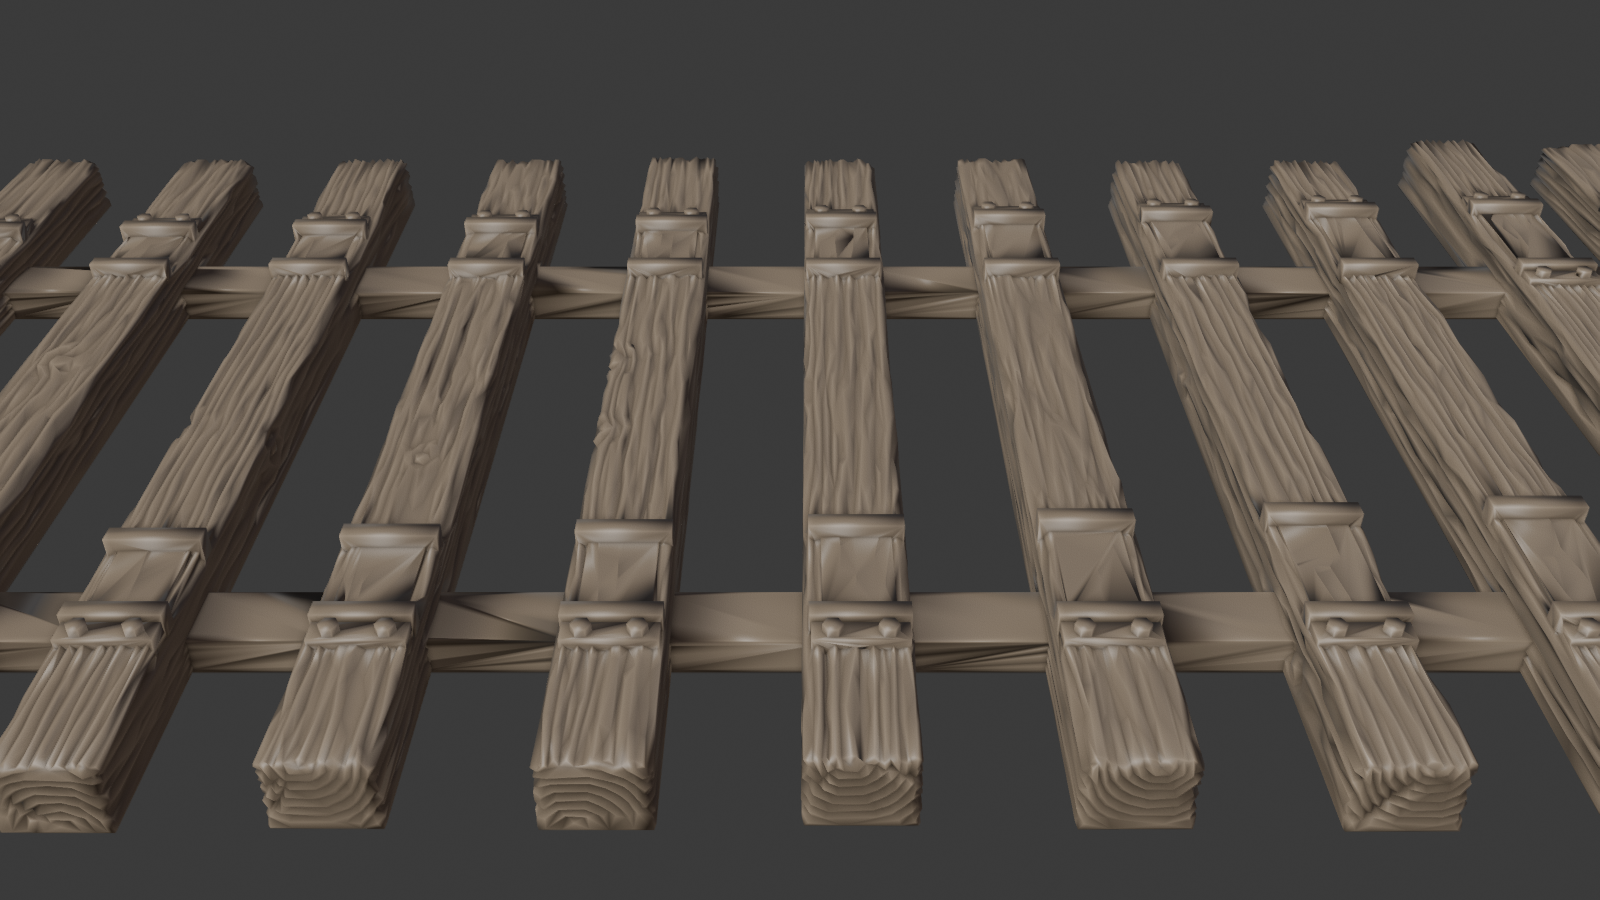
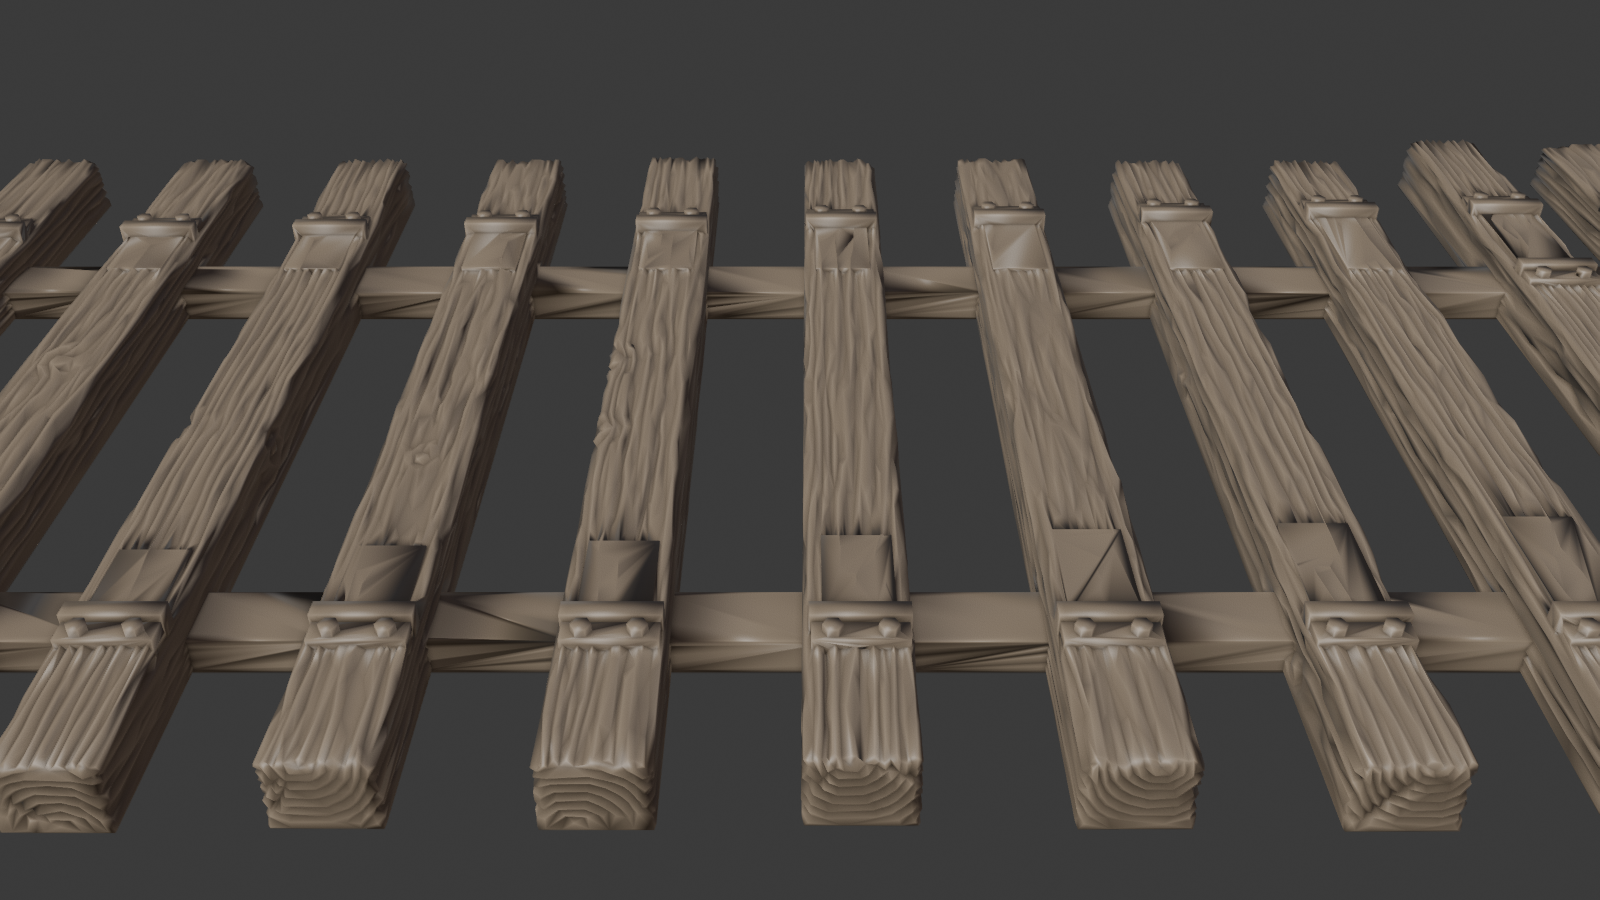
Movable-tie throw stops on the outside of the rail only (v0.9.1)
Claude-Session: https://claude.ai/code/session_01FyFJnGRmoKFYLFwSH9wQdR

diff --git a/stub_switch/layout.py b/stub_switch/layout.py
@@ -766,8 +766,8 @@ def _headblock_hardware(t: Turnout, s: Spec, lay: Layout, lines, embed: float) -
     gets a block on each side, just clear of its foot at the two ends of its
     travel (lined up with the straight route, and thrown), so it can't be
     pushed past either route. With ``stops_every_tie`` every other tie under
-    the movable rails, from the heel on, gets them too, set to the rail's
-    travel at that tie and bolted only on the rail's outside.
+    the movable rails, from the heel on, gets a bolted stop on each rail's
+    outside, set to the rail's travel at that tie.
 
     **Bolts.** With ``bolts`` on, hex bolt heads fasten the hardware to the
     ties: two at each end of each headblock plate, past the clips; and each
@@ -829,7 +829,7 @@ def _headblock_hardware(t: Turnout, s: Spec, lay: Layout, lines, embed: float) -
             top = max(top, z1)
             if s.stops_every_tie:
                 # Every other tie under the movable rails, between the heel (where the
-                # rails are spiked) and that tie: bolted only on the rail's outside.
+                # rails are spiked) and that tie: one bolted stop, on the rail's outside.
                 for tie in before[:-1]:
                     if tie.x > -t.movable_length + 1e-6:
                         _throw_stops(t, s, lay, tie, embed, outside_only=True)
@@ -842,9 +842,9 @@ def _throw_stops(t: Turnout, s: Spec, lay: Layout, tie: Tie, embed: float,
 
     Each block is just clear of the rail foot at one end of the rail's
     travel there: lined up with the straight route, or thrown (moved over
-    by the bend at this tie). With bolts on, a block stands on a thin base
-    plate reaching away from the rail, held by two bolts: on both blocks,
-    or with ``outside_only`` just the one on the rail's outside (field side).
+    by the bend at this tie). With ``outside_only`` only the block on the
+    rail's outside (field side) is made. With bolts on, each block stands
+    on a thin base plate reaching away from the rail, held by two bolts.
     """
     half_foot, wt, ht = s.foot_width / 2, lay.tie_width, lay.tie_height
     w = float(turnout_bend(t, tie.x))
@@ -858,10 +858,12 @@ def _throw_stops(t: Turnout, s: Spec, lay: Layout, tie: Tie, embed: float,
         outside = 1 if y > 0 else -1  # the field side of this rail
         # (block's near face, away from the rail: -1 below the rail, +1 above it)
         for near, away in ((y - half_foot - c, -1), (y + w + half_foot + c, 1)):
+            if outside_only and away != outside:
+                continue  # the movable ties get a stop on the rail's outside only
             far = near + away * sw
             lay.stops.append(Box(x0, x1, max(min(near, far), tie.y0),
                                  min(max(near, far), tie.y1), ht - embed, z1))
-            if not s.bolts or (outside_only and away != outside):
+            if not s.bolts:
                 continue
             # A base plate reaching away from the rail, bolted to the tie. It starts
             # inside the block and stops short of the block's ends, so no faces of the

diff --git a/tests/test_geometry.py b/tests/test_geometry.py
@@ -368,7 +368,7 @@ class TestLayout(unittest.TestCase):
         self.assertEqual((none.hb_plates, none.clips, none.stops), ([], [], []))
 
     def test_stops_on_every_movable_tie(self):
-        """Optional stops on every movable tie, bolted only on each rail's outside."""
+        """Optional stops on every movable tie: one bolted stop on each rail's outside."""
         t = self.t
         base = layout.compute(t, ho_ties())
         every = layout.compute(t, ho_ties(stops_every_tie=True))
@@ -383,14 +383,17 @@ class TestLayout(unittest.TestCase):
         for tie in movable:
             blocks = [b for b in on(every.stops, tie, lambda b: (b.x0 + b.x1) / 2)
                       if b.z1 > every.seat + 0.3]
-            self.assertEqual(len(blocks), 4)
+            self.assertEqual(len(blocks), 2)  # one per rail, on its outside
             bolts = on(every.bolts, tie, lambda b: sum(p[0] for p in b.outline) / 6)
-            self.assertEqual(len(bolts), 4)  # two per rail, outside only
+            self.assertEqual(len(bolts), 4)  # two per stop
             ys = [sum(p[1] for p in b.outline) / 6 for b in bolts]
             self.assertTrue(all(abs(y) > t.rail_y for y in ys))
             w = layout.turnout_bend(t, tie.x)
-            left = sorted((b for b in blocks if b.y0 > 0), key=lambda b: b.y0)
-            self.assertAlmostEqual(left[1].y0, t.rail_y + w + 1.855 / 2 + 0.15)
+            left = [b for b in blocks if b.y0 > 0]
+            right = [b for b in blocks if b.y1 < 0]
+            self.assertEqual((len(left), len(right)), (1, 1))
+            self.assertAlmostEqual(left[0].y0, t.rail_y + w + 1.855 / 2 + 0.15)
+            self.assertAlmostEqual(right[0].y1, -t.rail_y - 1.855 / 2 - 0.15)
         # The stop tie next to the headblock is unchanged: bolted both sides.
         self.assertEqual(len(on(every.bolts, next(x for x in every.ties if x.x == near),
                                 lambda b: sum(p[0] for p in b.outline) / 6)), 8)

diff --git a/stub_switch/properties.py b/stub_switch/properties.py
@@ -327,9 +327,9 @@ class STUBSWITCH_Settings(bpy.types.PropertyGroup):
                     "rail, that stop it at the straight and at the diverging route")
     stops_every_tie: BoolProperty(
         name="On Every Movable Tie", default=False, update=_changed,
-        description="Also put throw stops on every tie under the movable rails, from the heel "
-                    "to the headblock, each set to the rail's travel at that tie. These are "
-                    "bolted only on the outside of the rail")
+        description="Also put a throw stop on the outside of each movable rail on every tie "
+                    "under the movable rails, from the heel to the headblock, set to the rail's "
+                    "travel at that tie")
     stop_width: _model("Stop Width", 0.5, "Width of each throw stop across the track")
     stop_clearance: _model("Stop Clearance", 0.15,
                            "Play between a throw stop and the rail foot at each end of travel")

diff --git a/README.md b/README.md
@@ -14,7 +14,7 @@ All four add-ons are installed and enabled:
 
 ## Install
 
-In Blender, open Edit > Preferences > Get Extensions, choose "Install from Disk" in the menu at the top right, and pick `dist/stub_switch-0.9.0.zip`. The panel is in the 3D Viewport sidebar (N), **Stub Switch** tab.
+In Blender, open Edit > Preferences > Get Extensions, choose "Install from Disk" in the menu at the top right, and pick `dist/stub_switch-0.9.1.zip`. The panel is in the 3D Viewport sidebar (N), **Stub Switch** tab.
 
 ## Use
 
@@ -26,7 +26,7 @@ The **i** button in the Stub Switch panel's header turns the informational lines
 3. **Ties.** Choose **Board Object** and pick your template tie (or click the eyedropper with the board selected), or choose **Board Preset**. Its look, width and thickness are used for every tie and its length is the standard tie length. Set the spacing, how many **Approach Ties** come before the heel of the movable rails and how many **Ties Past Frog**, the **Length Step** that long ties are rounded up to (6 in on the prototype), and the **Headblock Ties**, lengthened on the switch stand side. The two headblock ties are one tie width apart by default; untick **Gap = Tie Width** to enter your own gap.
 4. **Strip:** **Two Pieces** (on by default) prints the tie strip as two pieces, the movable rail section and the fixed rail section, meeting in the gap just before the headblock tie (or before both headblock ties). In that gap each connector becomes a **tab** on the movable piece that fits a **socket** in the fixed piece's headblock tie, open at the bottom, so the pieces line up square and can be glued. Set the **Tab Depth** (1 mm) and the **Joint Clearance** (0.1 mm, more for FDM). The two ties at the joint get no random offset or angle, so the tabs always fit.
 5. **Spikes:** Spike Holes, Printed Spikes, or None. **Tie Plates** as needed (the same era presets as Tie Strip).
-   **Headblock** (separate from the tie plates, so it works with or without them): **Headblock Plates** put a plate on the headblock tie under each pair of rail ends (straight and diverging, side by side), with L-shaped clips along the inside and outside of the pair, on the fixed half of the tie, whose lips reach over the rail feet and hold the rail ends in line. The clips use the printed spike sizes in the Spikes panel. The movable rail tips slide on the other half of the plate. With tie plates on, the headblock plate is as thick as the tie plates; with them off, the headblock tie is made thinner by the plate's thickness so all the rails lie level. **Throw Stops** put a block on each side of each movable rail on the tie before the headblock tie, just clear of the rail foot at both ends of its travel, so the rails can't be pushed past either route. Tick **On Every Movable Tie** to put throw stops on every tie under the movable rails as well, from the heel to the headblock, each set to the rail's travel at that tie; these are bolted only on the outside of the rail (the stops next to the headblock stay bolted on both sides). With **Bolts** on (the default), hex bolt heads fasten the hardware to the ties: two at each end of each headblock plate, past the clips, and two on a thin base plate under each throw stop. Set the **Bolt Head Size** (across the flats, 1-1/2 in) and **Bolt Head Height** (3/4 in).
+   **Headblock** (separate from the tie plates, so it works with or without them): **Headblock Plates** put a plate on the headblock tie under each pair of rail ends (straight and diverging, side by side), with L-shaped clips along the inside and outside of the pair, on the fixed half of the tie, whose lips reach over the rail feet and hold the rail ends in line. The clips use the printed spike sizes in the Spikes panel. The movable rail tips slide on the other half of the plate. With tie plates on, the headblock plate is as thick as the tie plates; with them off, the headblock tie is made thinner by the plate's thickness so all the rails lie level. **Throw Stops** put a block on each side of each movable rail on the tie before the headblock tie, just clear of the rail foot at both ends of its travel, so the rails can't be pushed past either route. Tick **On Every Movable Tie** to also put a bolted throw stop on the outside of each movable rail on every tie under the movable rails, from the heel to the headblock, set to the rail's travel at that tie (the stops on the tie next to the headblock stay on both sides of the rail). With **Bolts** on (the default), hex bolt heads fasten the hardware to the ties: two at each end of each headblock plate, past the clips, and two on a thin base plate under each throw stop. Set the **Bolt Head Size** (across the flats, 1-1/2 in) and **Bolt Head Height** (3/4 in).
 6. **Rail and Frog:** tick **Include Rail** to lay all the rails (set for the straight or diverging route) and **Include Frog** to lay the frog, both parented to the tie strip, to check the fit and for renders. With **Frog Heel Rails** on (the default), each route leaving the frog's heel starts with a short rail as long as the guard rails, so the frog and its heel rails can be laid as one piece; the rest of the rail carries on from there.
 7. **Generate Stub Switch** and check the Summary. **Include Frog** also adds the guard rails, even with Include Rail off.
 8. **Export STL.** The export choices are in the file browser's side panel: **Ties Only** (for printing), **Ties, Frog and Guard Rails** (so you can lay your own rail), **Entire Turnout**, or **Rail and Frog**. Every rail, guard rail and the frog is written to its own file, named after the file name chosen plus the part (for example `..._Frog.stl`, `..._Guard_L.stl`). For a two-piece tie strip, **Each Tie Piece to Its Own File** writes the fixed and movable pieces to files ending `_fixed` and `_movable`.
